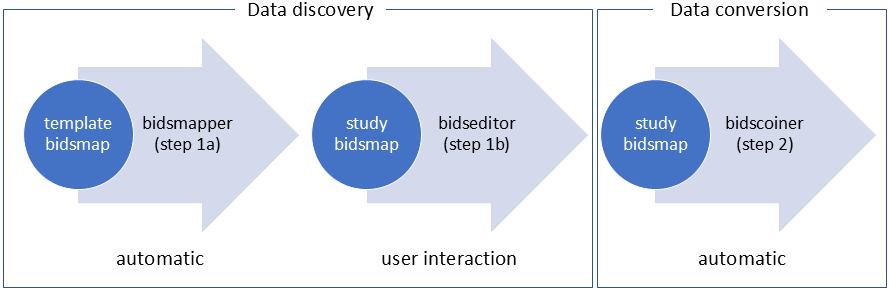
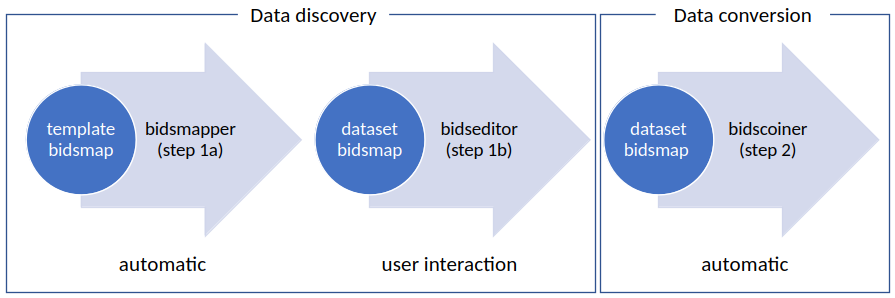
Replace "study bidsmap" with "dataset bidsmap" to align with the BIDS study notion (GitHub issue #281)

diff --git a/docs/workflow.rst b/docs/workflow.rst
@@ -5,7 +5,7 @@ With a sufficiently `organized source data folder <./preparation.html>`__, the d
 
 .. figure:: ./_static/bidsmap_flow.png
 
-   Creation and application of a dataset bidsmap
+   To evolution of the template bidsmap into a provisional dataset bidsmap, into the final dataset bidsmap that is used to convert the data
 
 By default, when finished the bidsmapper automatically launches the bidseditor, so in its simplest form, all you need to do to convert your raw source data into BIDS is to run two simple shell commands, e.g.:
 
